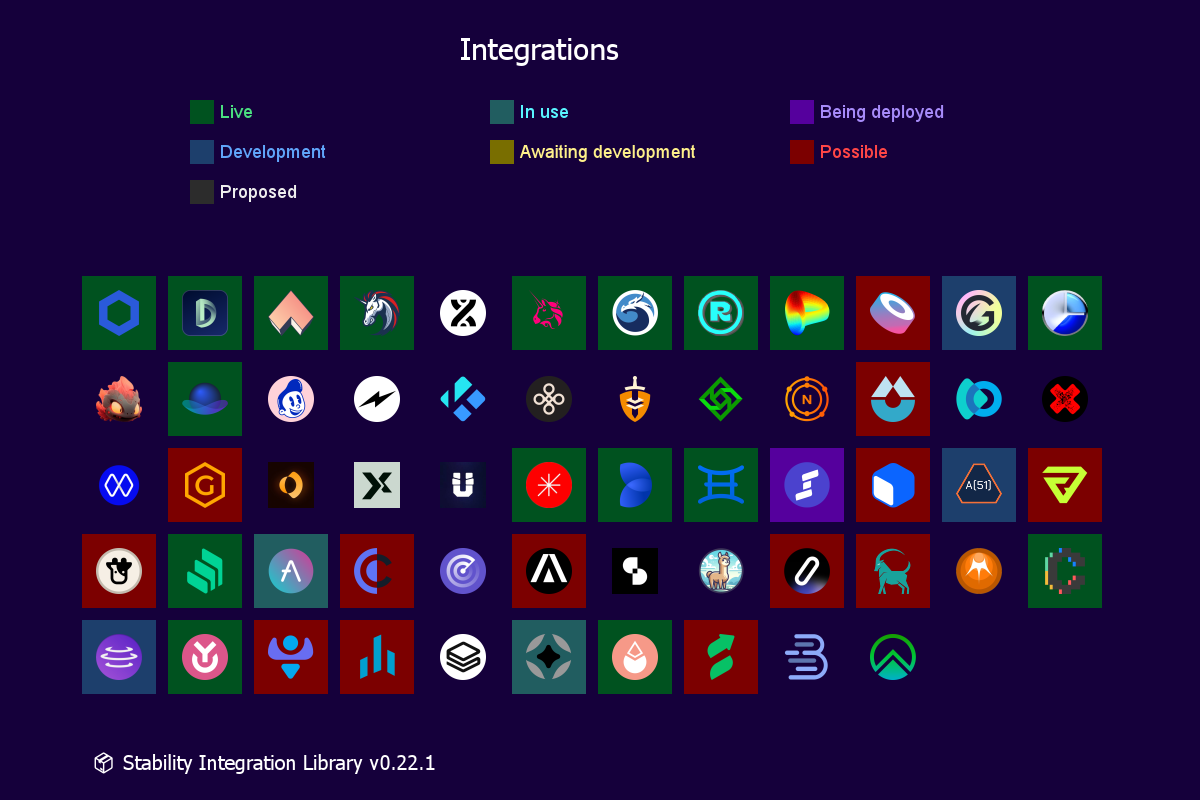
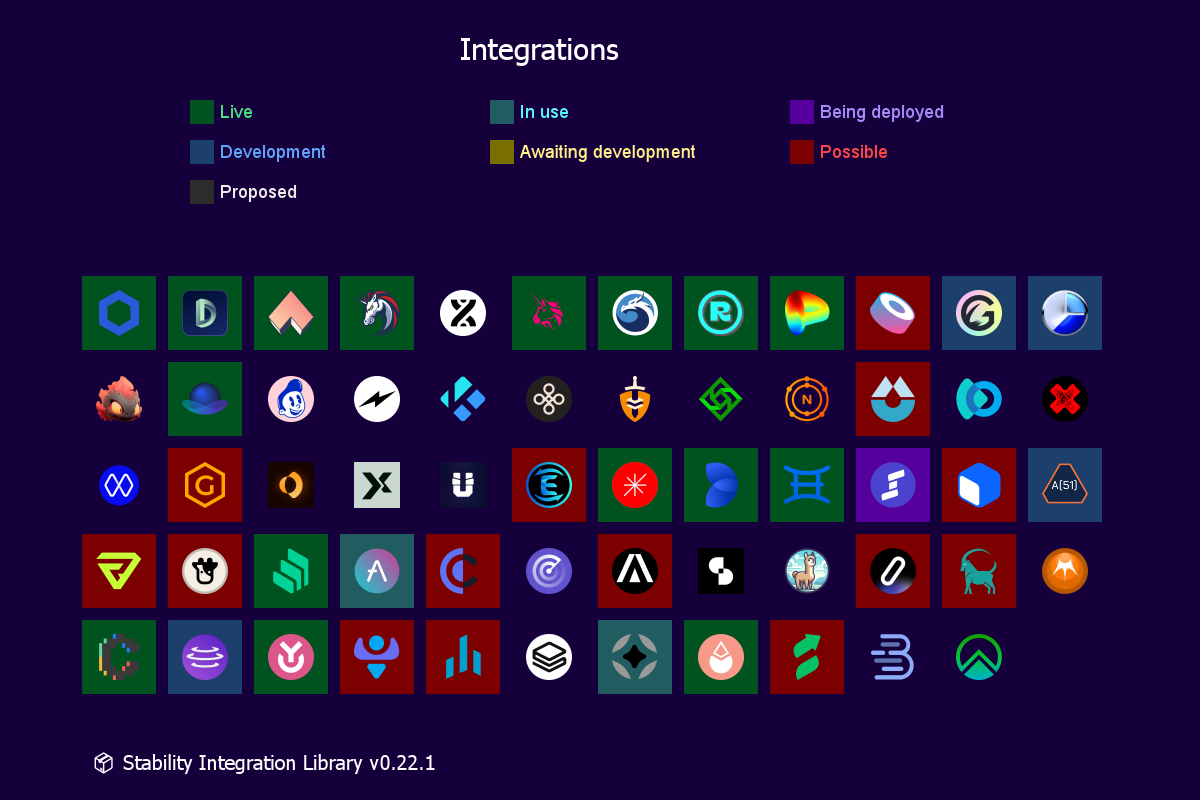
🌐 add equalizer; update getIntegrationStatus

Changed region(s): [[0.0617, 0.5625, 0.925, 0.875], [0.8325, 0.3438, 0.925, 0.4375]]

diff --git a/src/integrations.ts b/src/integrations.ts
@@ -817,6 +817,24 @@ export const integrations: { [org: string]: DeFiOrganization } = {
       },
     },
   },
+  equalizer: {
+    name: "Equalizer",
+    website: "https://equalizer.exchange",
+    img: "equalizer.png",
+    protocols: {
+      equalizer: {
+        name: "Equalizer",
+        category: DefiCategory.AMM,
+        chains: [
+          ChainName.FANTOM,
+          ChainName.BASE,
+          // sonic
+        ],
+        adapters: ["UniswapV3Adapter"],
+      },
+    },
+    defiLlama: "equalizer",
+  },
   // ALM
   gamma: {
     name: "Gamma",
@@ -1495,7 +1513,7 @@ export const getIntegrationStatus = (p: DeFiProtocol): IntegrationStatus => {
       ? IntegrationStatus.LIVE
       : IntegrationStatus.PROPOSED;
   }
-  if (p.adapters && p.adapters.length > 0) {
+  if (p.adapters && p.adapters.length > 0 && p.category !== DefiCategory.AMM) {
     return isSupportedNetwork
       ? IntegrationStatus.LIVE
       : IntegrationStatus.PROPOSED;
